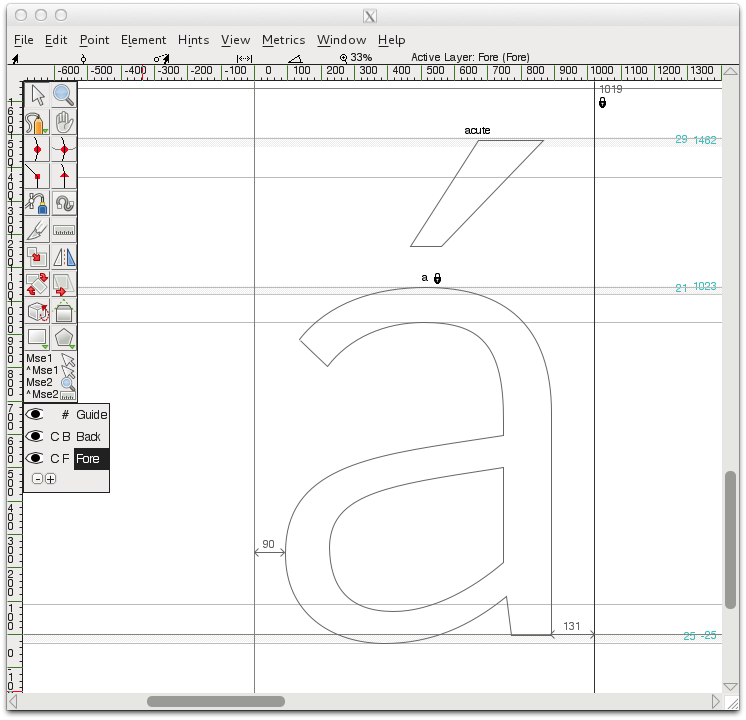
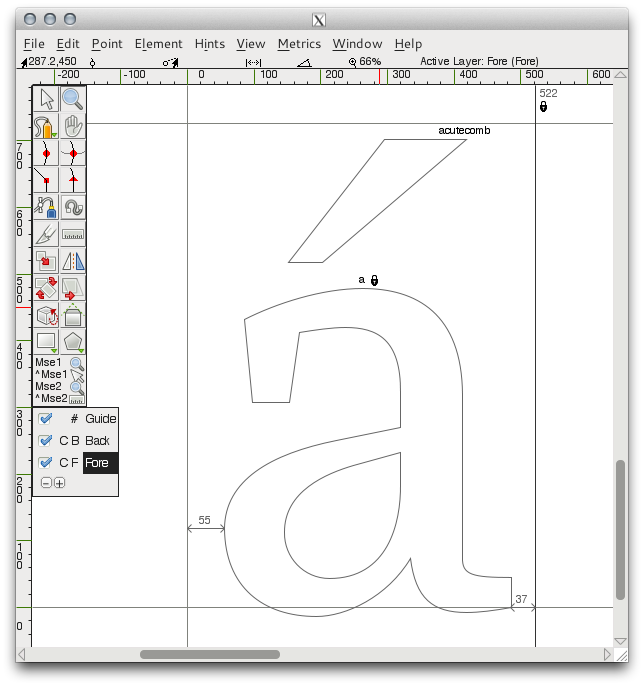
fixes to diacritics

diff --git a/en-US/Diacritics_and_Accents.md b/en-US/Diacritics_and_Accents.md
@@ -24,21 +24,24 @@ FontForge can automatically create accented characters in 2 main ways;
 1. FontForge contains rudimentary information on where to place diacritic marks, so can automatically build most accented characters.
 2. For much greater control of diacritic placement, FontForge can place diacritic marks based on the position of user created anchor points.
 
+<p class="warn">It should be noted here that if the glyph of a particular diacritic mark is not present in your font, then FontForge will instead use a similar spacing character in place. For example, if the combining mark 'acutecomb' (u+0301) is not present, then FontForge will use the standard 'acute' (u+00b4) character when it automatically builds any acute accented glyphs. If the 'acutecomb' is present, then FontForge will always use that, unless you specifically force FontForge to use spacing characters for building accented glyphs.</p>
+
 ### FontForge's basic auto placement of diacritic marks.
-In FontForge's 'Element' menu, is a function called 'Build' that can be used to create accented characters, certain composite characters and some duplicate characters. To auto build accented characters FontForge uses the 'Element > Build > Build Accented Glyph' function. This function can also be performed with the keystroke 'ctrl + shift + a'. So, using the example of building the 'a acute' character, we would need to have already created the lowercase 'a' and the 'acute' glyph. Then selecting the 'a acute' character slot and using the 'Element > Build > Build Accented Glyph' function, FontForge will place a reference to the lowercase 'a' glyph and a reference to the 'acute' glyph into the 'a acute' character slot (see below).
+In FontForge's 'Element' menu, is a function called 'Build' that can be used to create accented characters, certain composite characters and some duplicate characters. To auto build accented characters FontForge uses the 'Element > Build > Build Accented Glyph' function. This function can also be performed with the keystroke 'ctrl + shift + a'. So, using the example of building the 'a acute' character (u+00e1) , we would need to have already created the lowercase 'a' (u+0061) and the 'acutecomb' glyph (u+0301). Then selecting the 'a acute' character slot and using the 'Element > Build > Build Accented Glyph' function, FontForge will place a reference to the lowercase 'a' glyph and a reference to the 'acutecomb' glyph into the 'a acute' character slot (see below).
 
-<p class="warn">It should be noted here that if the glyph of a particular diacritic mark is not present in your font, then FontForge will instead use a similar spacing character in place. For example of the combining mark 'acutecomb' (u+0301)is not present, then FontForge will use the standard 'acute' (u+00b4) character when it automatically builds acute accented glyphs. If the 'acutecomb' is present, then FontForge will always use that, unless you specifically force FontForge to use spacing characters for building accented glyphs.</p>
-
-<img src="images/dia_auto_a_acute.png"/>
+<img width="400px" src="images/dia_auto_a_acute.png"/>
 
 This automatic placement of diacritic marks can be tuned by preferences, found in the 'accents' section of FontForge's preferences menu 'File > Preferences > Accents' (see below). 
 
 <img src="images/preferences_accents.png" />
+'PreferSpacingCharacters' - selecting this option to 'On' will force FontForge to build accented glyphs with spacing characters even if the appropriate combining characters are present.
 
 'AccentOffsetPercent' controls the amount of vertical space between the base glyph and the mark glyph. The value entered here is a percentage of the em square of the font. So a value of '6' will offset the mark glyph from the base glyph by 6 percent  of the font's em square.
 
-The preferences for the horizontal placement of the mark glyph can also be set. Selecting 'On'  for the   preference 'AccentCenterLowest' will centre the accent glyph to the lowest point of the base glyph. 
-Selecting 'AccentCenterHighest' to 'On' will centre the accent to the highest point of the base glyph. 
+The preferences for the horizontal placement of the mark glyph can also be set. Selecting 'On'  for the   preference 'AccentCenterLowest' will centre the accent glyph to the lowest point of the base glyph.
+ 
+Selecting 'AccentCenterHighest' to 'On' will centre the accent to the highest point of the base glyph.
+ 
 Selecting both the above preferences to 'Off' will centre the accent into the width of the base glyph. Selecting both the above preferences to 'On' will centre the accent in the width of the character slot.
 
 
